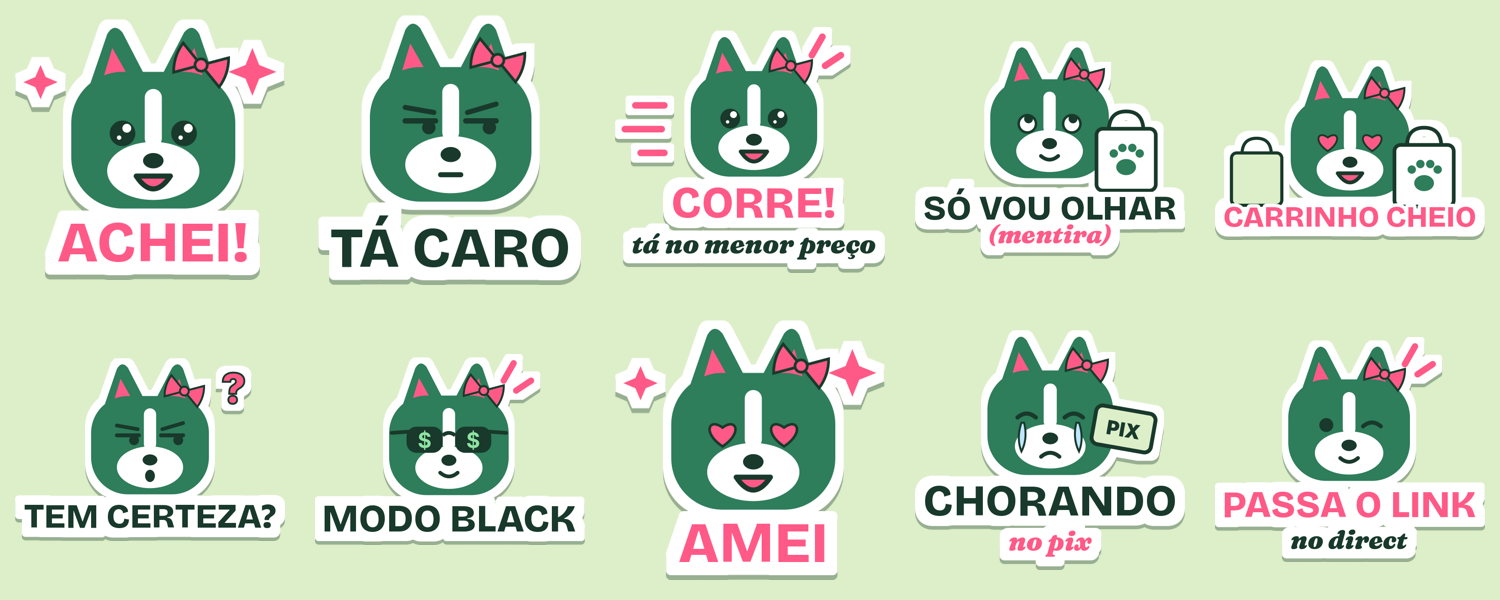
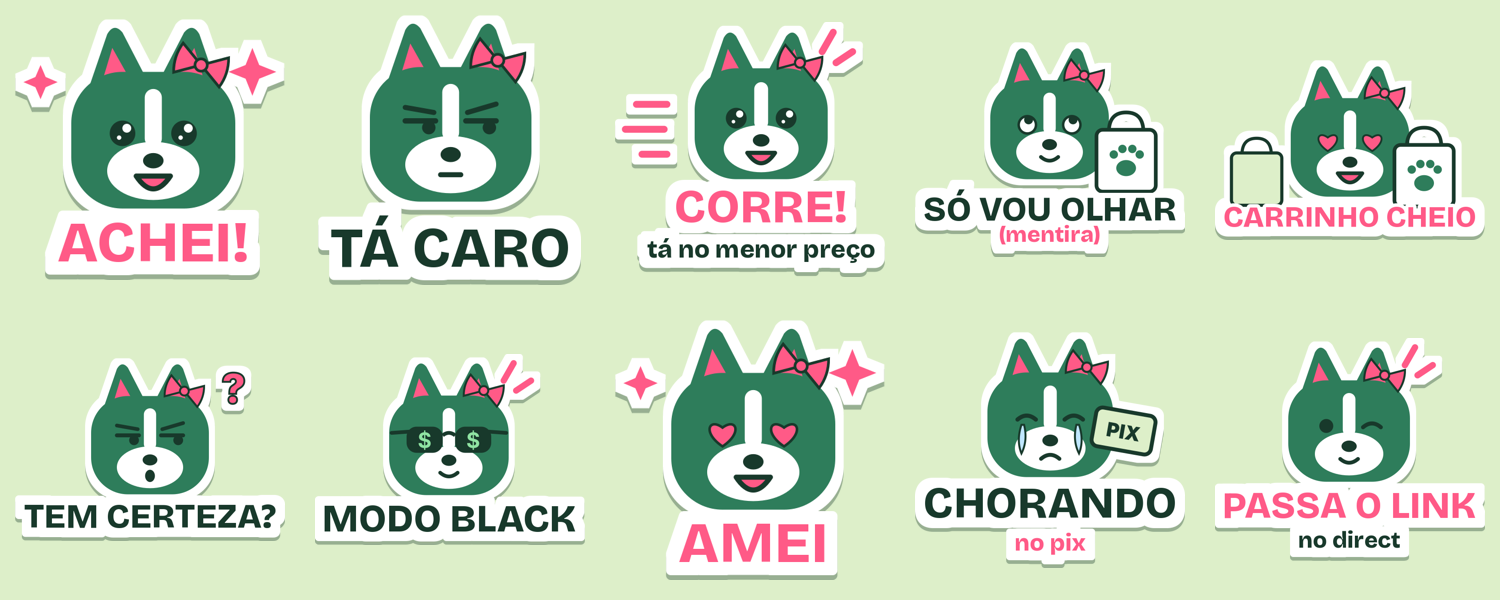
Sem itálico: destaque dos vídeos e figurinhas em Bricolage
Claude-Session: https://claude.ai/code/session_01QX6LU9jp26y4wc2m32DFzQ

diff --git a/afiliadamiyu/_ferramentas-video/miyu_overlay.py b/afiliadamiyu/_ferramentas-video/miyu_overlay.py
@@ -105,7 +105,7 @@ def gancho_cartao(path, texto):
     img = Image.new("RGBA", (W, H), (0, 0, 0, 0))
     d = ImageDraw.Draw(img)
     b = fonte("BricolageGrotesque.ttf", 64, b"ExtraBold")
-    i = fonte("Fraunces-Italic.ttf", 70, b"SemiBold Italic")
+    i = fonte("BricolageGrotesque.ttf", 66, b"ExtraBold")
     linhas = [[(antes.strip(), b, VERDE_NOITE)],
               [(meio.strip() + " ", b, VERDE_NOITE), (destaque.strip(), i, VERDE_MIYU)]]
     linhas = [[r for r in ln if r[0].strip()] for ln in linhas]
@@ -159,7 +159,7 @@ def gancho_tweet(path, texto):
 
 def gancho_chamada(path, texto):
     """Formato 5 do Lobão: título gigante CAIXA ALTA pistache com sombra verde-noite.
-    texto = "LINHA 1|LINHA 2|destaque" (destaque em Fraunces itálico, opcional)."""
+    texto = "LINHA 1|LINHA 2|destaque" (destaque em Bricolage, sem itálico, opcional)."""
     partes = (texto.split("|") + ["", ""])[:3]
     l1, l2, destaque = partes[0].strip().upper(), partes[1].strip().upper(), partes[2].strip()
     img = Image.new("RGBA", (W, H), (0, 0, 0, 0))
@@ -181,7 +181,7 @@ def gancho_chamada(path, texto):
         escreve_espacado(d, x, y, ln, f, PISTACHE, track, 7, VERDE_NOITE)  # contorno pra ler em fundo claro
         y += lh
     if destaque:
-        fi = fonte("Fraunces-Italic.ttf", int(tam * 0.62), b"SemiBold Italic")
+        fi = fonte("BricolageGrotesque.ttf", int(tam * 0.5), b"ExtraBold")
         w = d.textlength(destaque, font=fi)
         x = (W - w) / 2
         d.text((x + 5, y + 6), destaque, font=fi, fill=VERDE_NOITE, stroke_width=5, stroke_fill=VERDE_NOITE)

diff --git a/afiliadamiyu/_ferramentas-video/figurinhas/gerar_figurinhas.py b/afiliadamiyu/_ferramentas-video/figurinhas/gerar_figurinhas.py
@@ -74,7 +74,7 @@ for nome,tit,sub,olho,boca,ex,cor in FIGS:
     y=30+corg.height-18
     d.text((cv.width/2,y),tit,font=f,fill=cor,anchor="mt",stroke_width=8,stroke_fill="#FFFFFF")
     if sub:
-        fs=font(F,58); d.text((cv.width/2,y+tam+2),sub,font=fs,fill=VN if cor==RO else RO,anchor="mt",stroke_width=7,stroke_fill="#FFFFFF")
+        fs=font(B,52,'ExtraBold'); d.text((cv.width/2,y+tam+2),sub,font=fs,fill=VN if cor==RO else RO,anchor="mt",stroke_width=7,stroke_fill="#FFFFFF")
     bb=cv.getbbox(); cv=cv.crop((max(bb[0]-30,0),max(bb[1]-30,0),min(bb[2]+30,cv.width),min(bb[3]+30,cv.height)))
     pad=Image.new('RGBA',(cv.width+40,cv.height+50),(0,0,0,0)); pad.alpha_composite(cv,(20,20))
     out=contorno(pad); bb=out.getbbox(); out=out.crop(bb)
